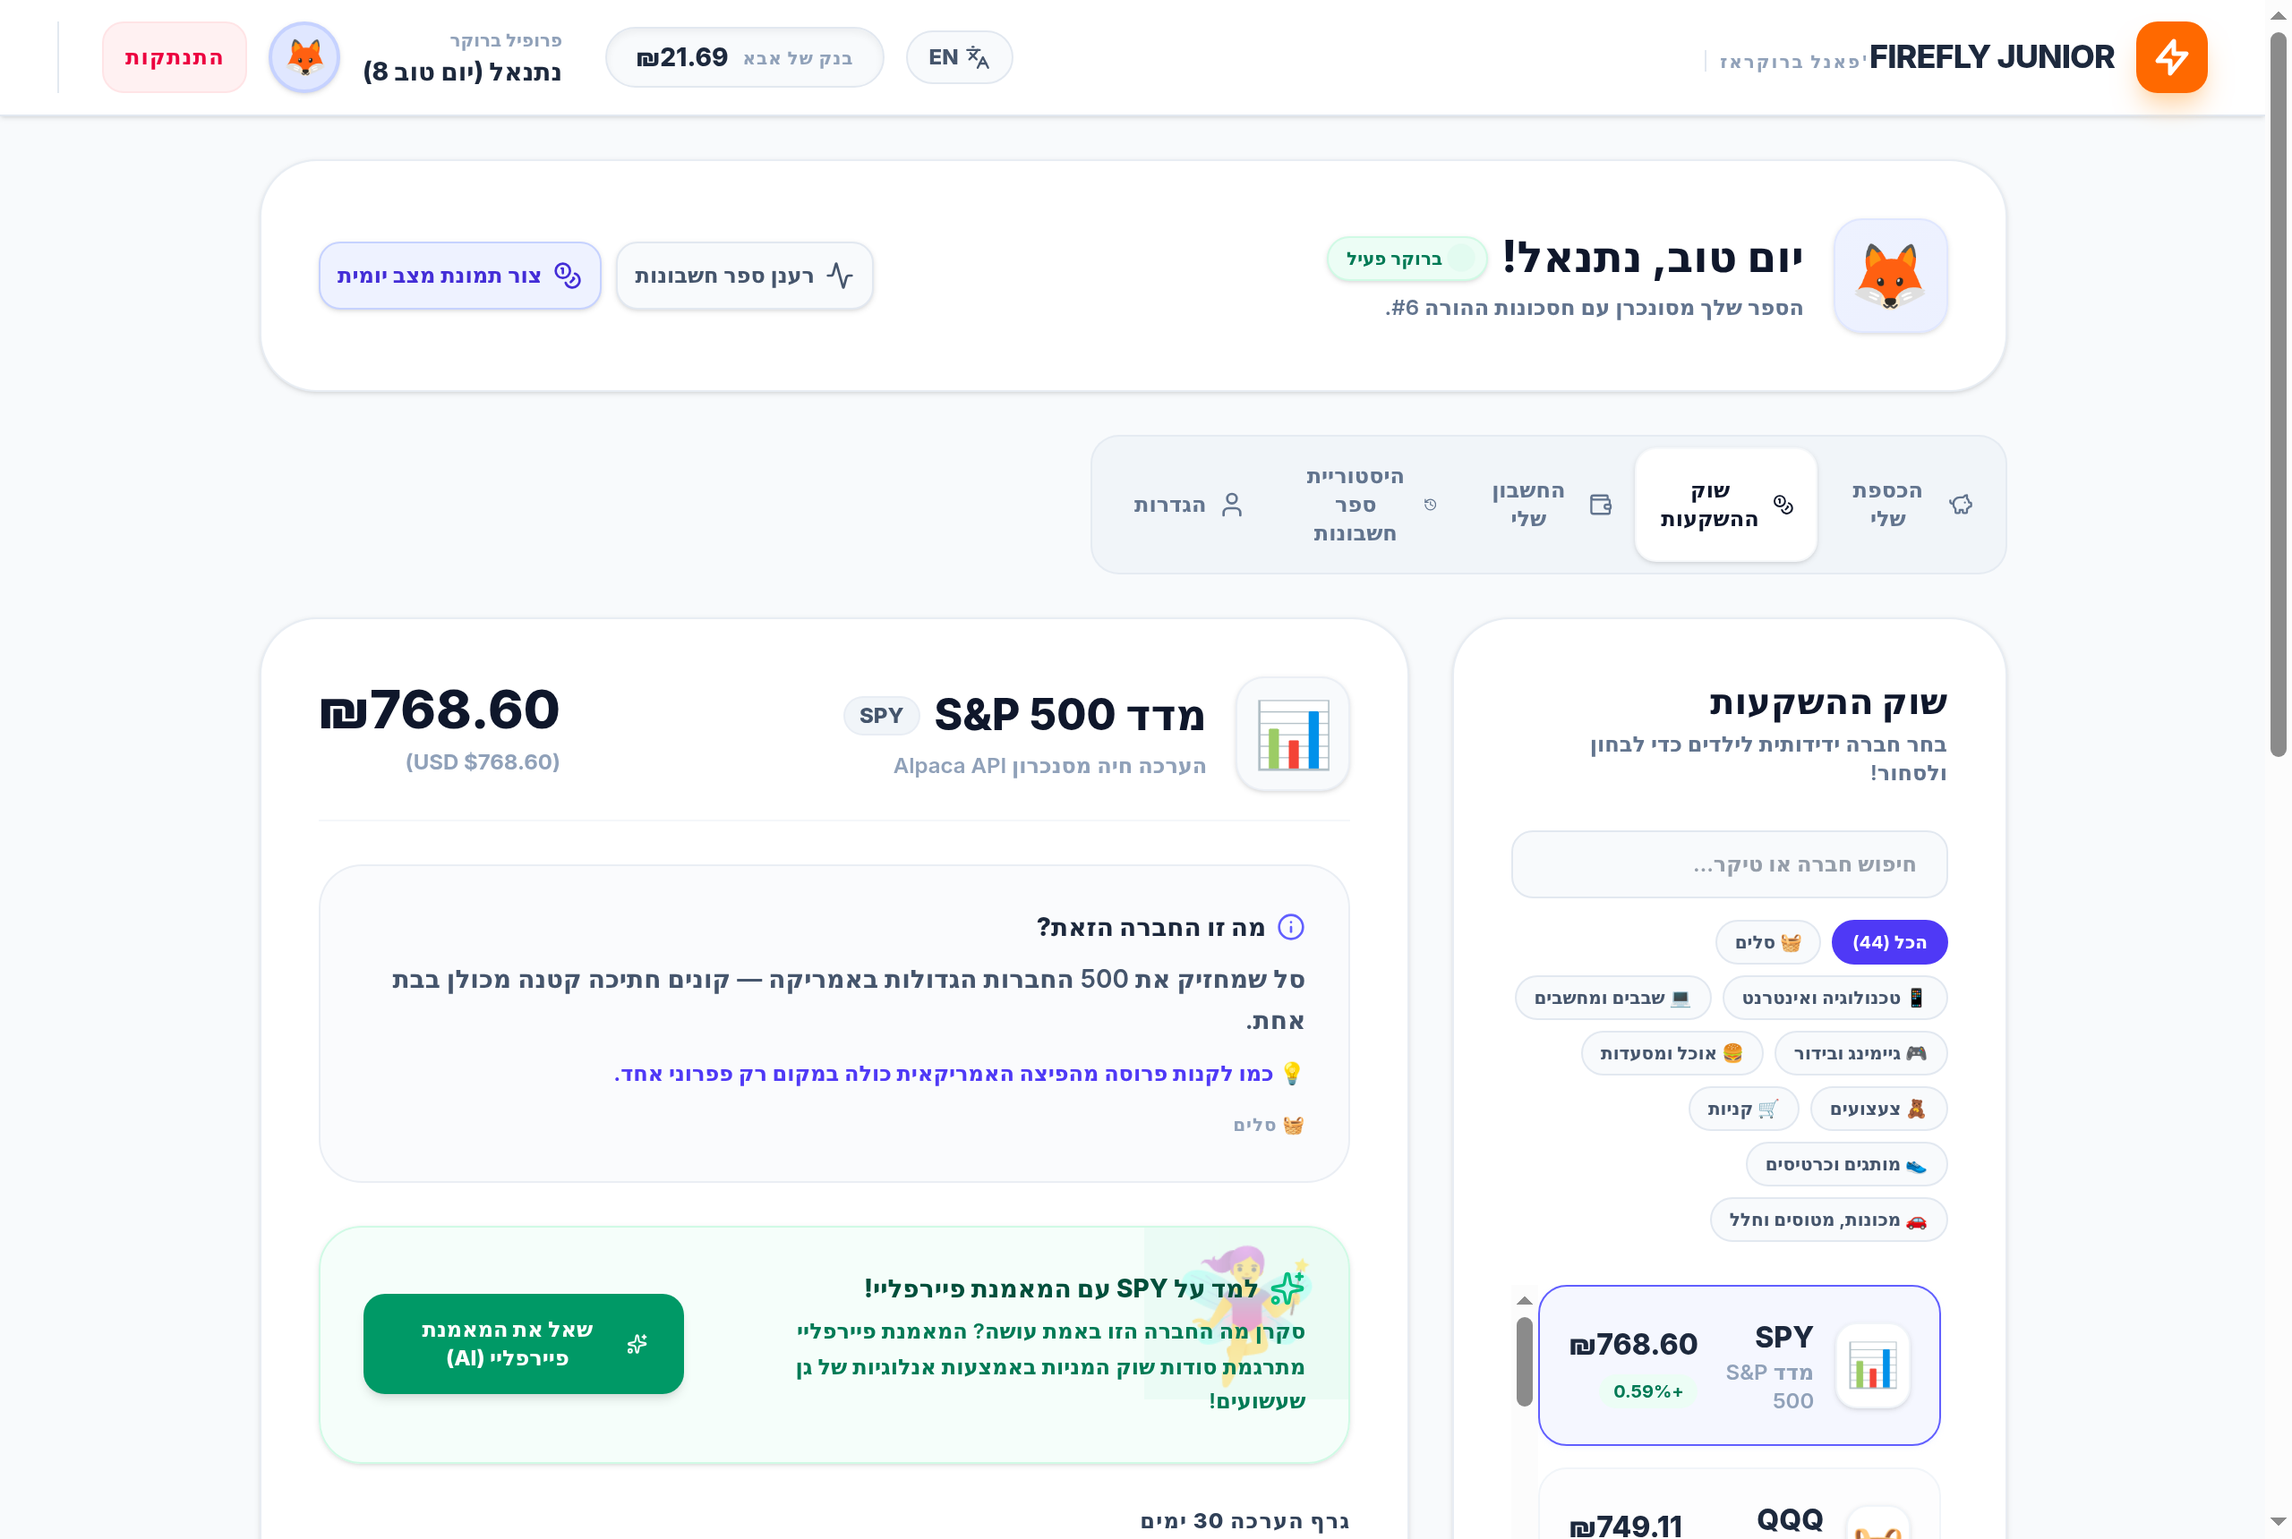
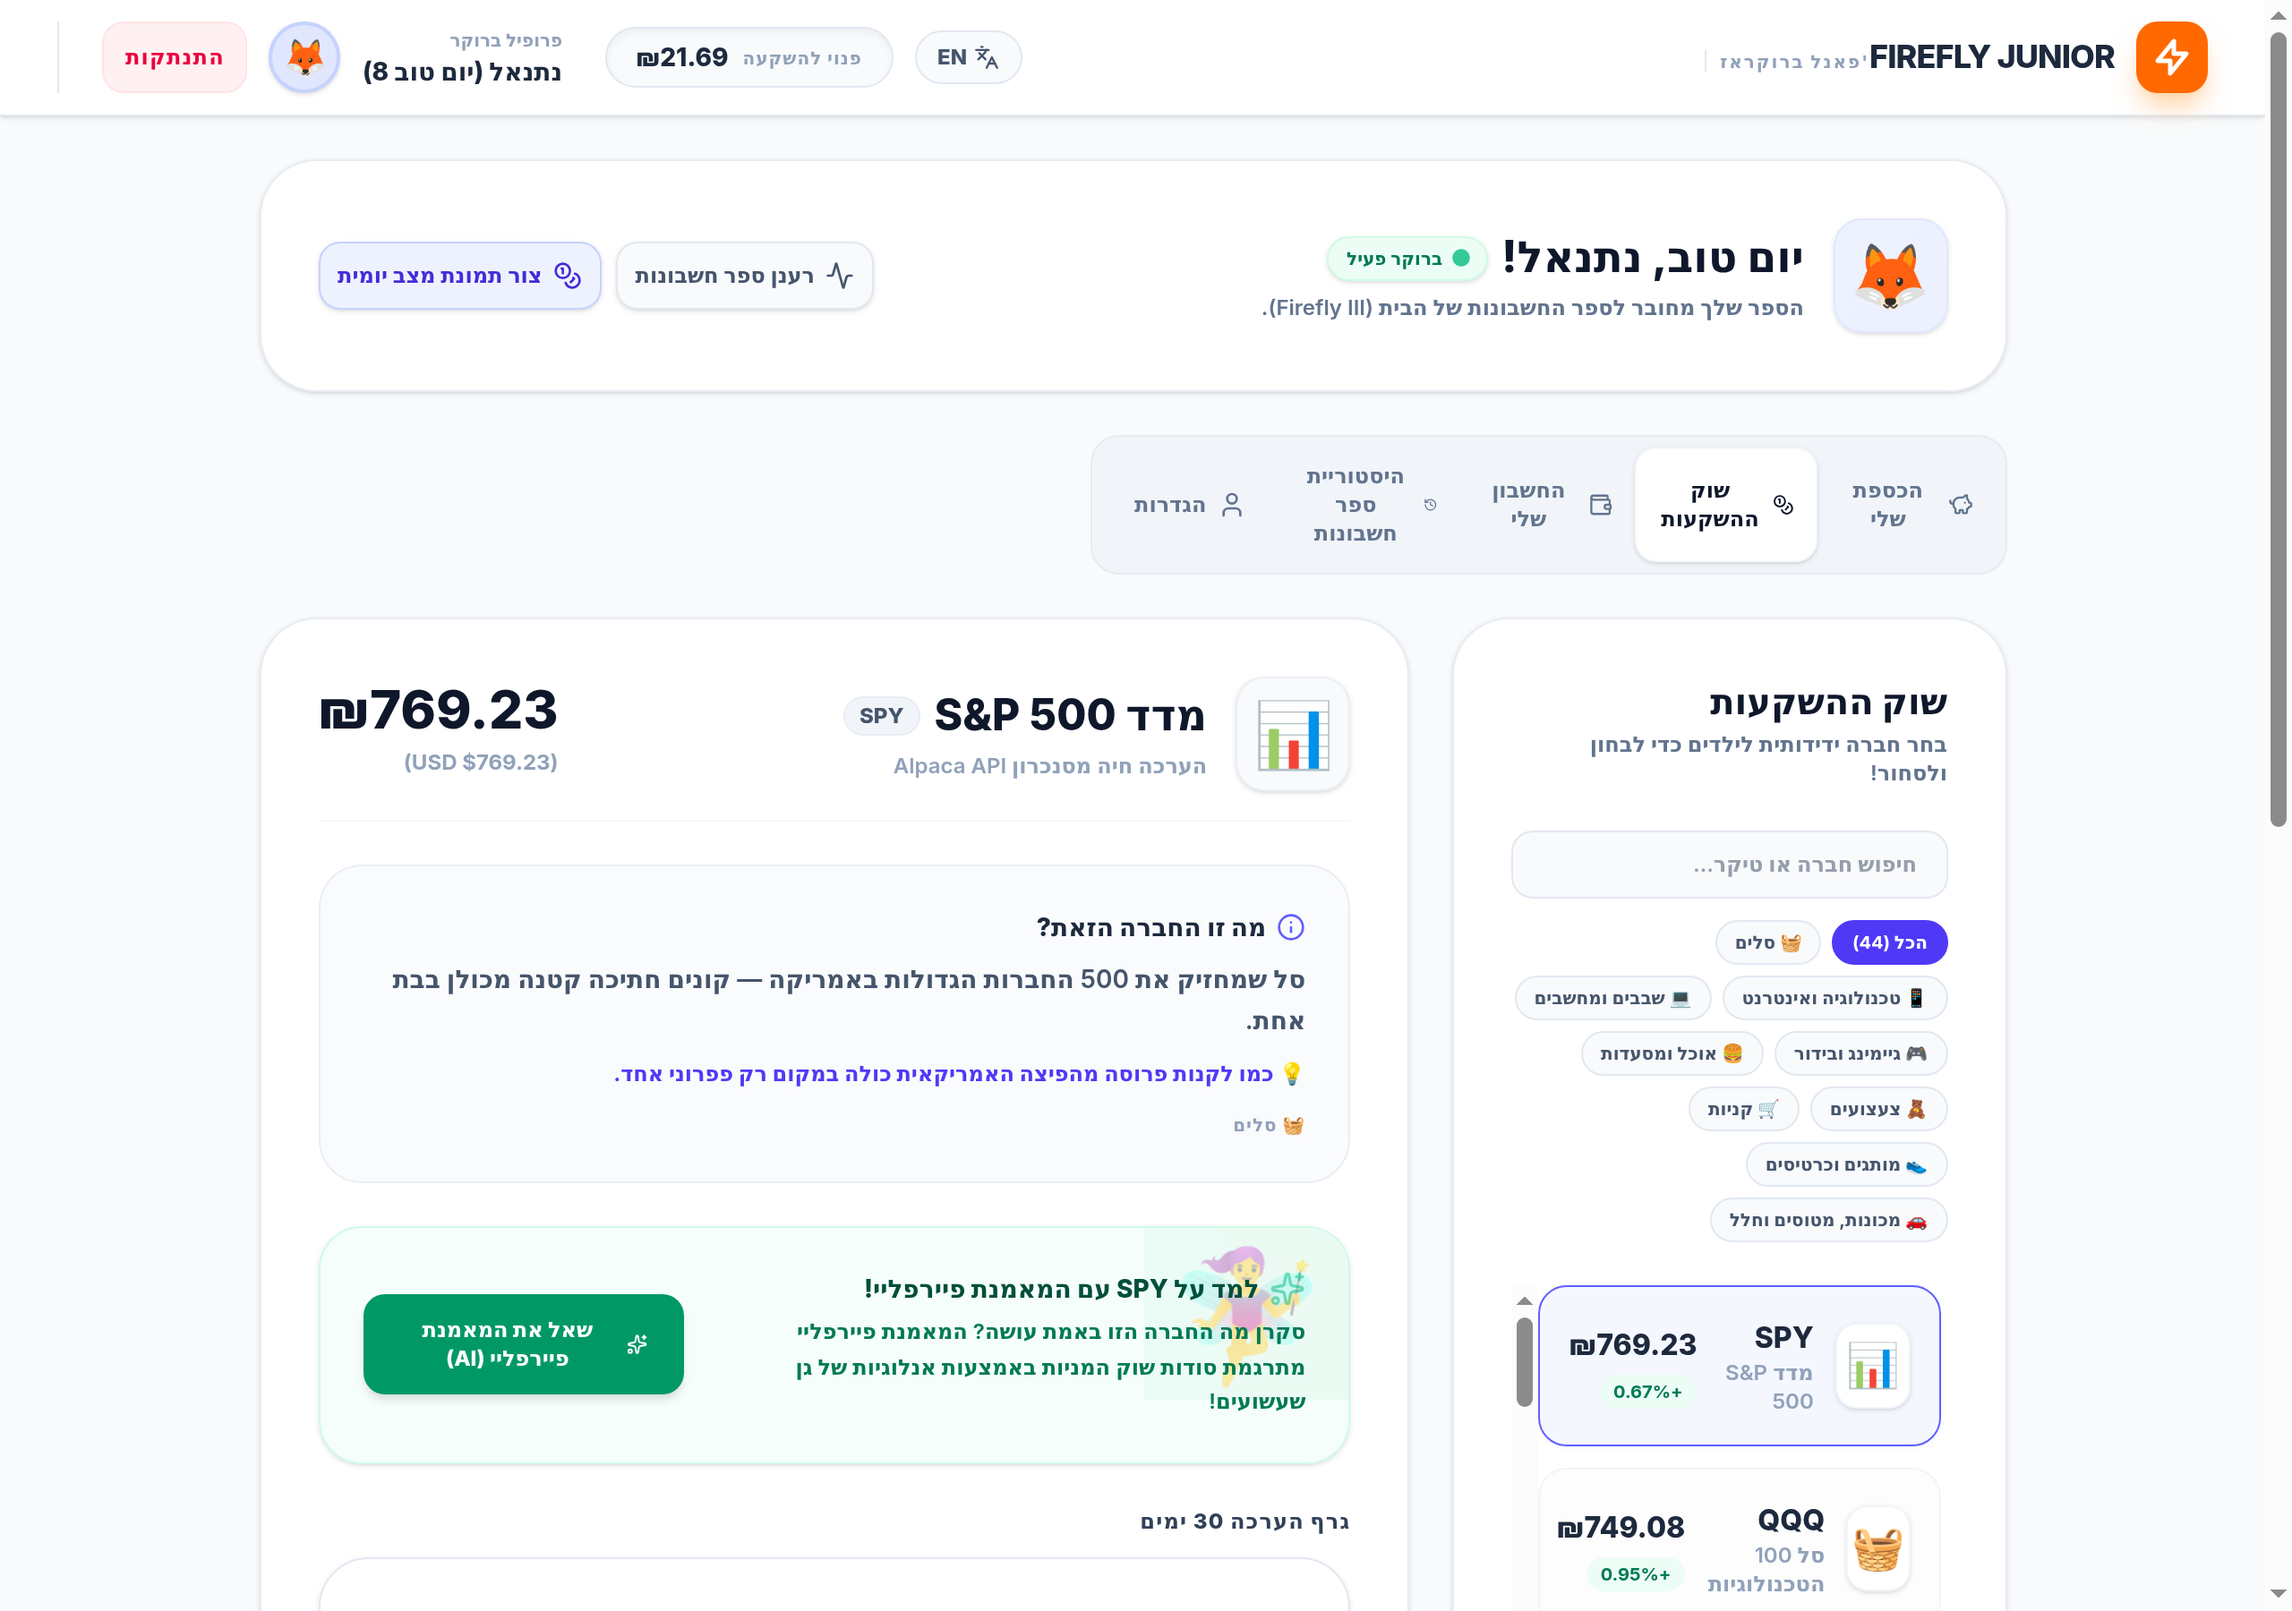
docs: re-shoot every screenshot — the header pill in all of them still said "בנק של אבא"
Only 01 was re-taken last time; screenshots 02-07 were captured before the wording fix and
still showed the old header pill (the chip is on every screen). All seven now show
"פנוי להשקעה", and the trading shot shows the new result line
"רווח ₪4.00 במכירת SPY — מהשוק".

diff --git a/README.md b/README.md
@@ -58,7 +58,9 @@ and an AI coach that answers a kid's questions in a kid's language.
 ![Trading](assets/screenshots/04-trade.png)
 
 Buying asks which money pays: pocket money (🍬) or the investment fund (📈). Selling shows every
-purchase he made, one by one, each with its own profit — and he chooses which ones to sell.
+purchase he made, one by one, each with its own profit — and he chooses which ones to sell. The
+result is named for what it is: *רווח ₪4.00 במכירת SPY — מהשוק* — "₪4.00 profit on the SPY sale,
+paid by the market" — never after the grown-up who settles it.
 
 ### The pocket account — a bank statement he can read
 ![Pocket statement](assets/screenshots/05-account-pocket.png)
